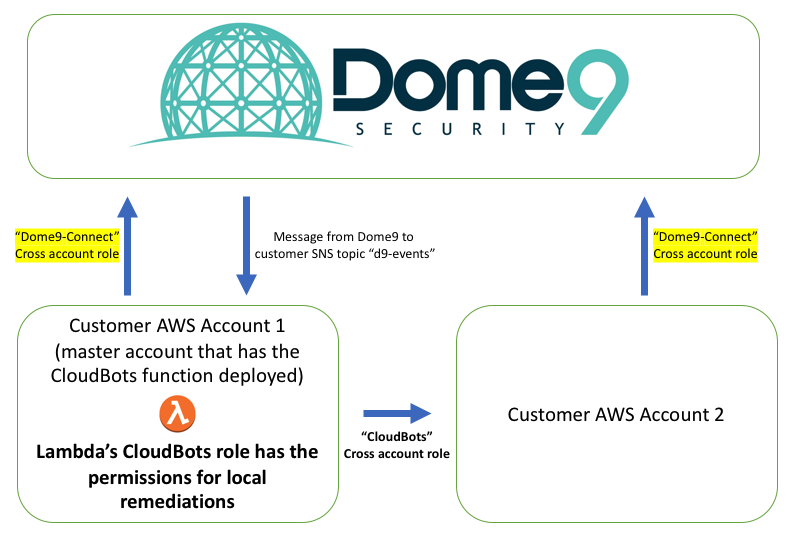
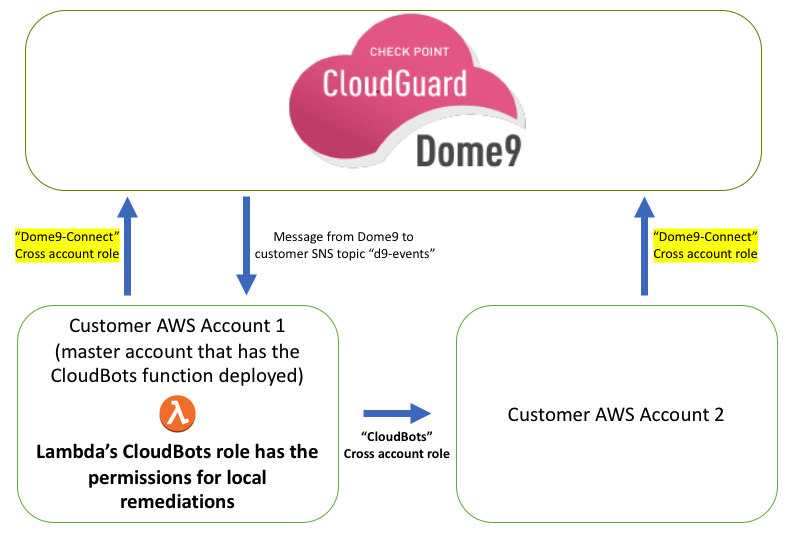
Doc 162 flow diag (#22)
* updated flow diagram

* updated logos in diagrams

* updated readme for revised images

* new image

* update diagrams

diff --git a/README.md b/README.md
@@ -101,7 +101,7 @@ In multi-mode, remediations are applied for more than one account. The
 lambda function is deployed in only one account, but uses cross-account
 roles to run bots in other accounts. It follows this workflow:
 
-![multi mode](docs/pictures/cs2_multi_acct_workflow.jpg)
+![multi mode](docs/pictures/cs2_multi_acct_workflow.png)
 
 # Onboarding
 
